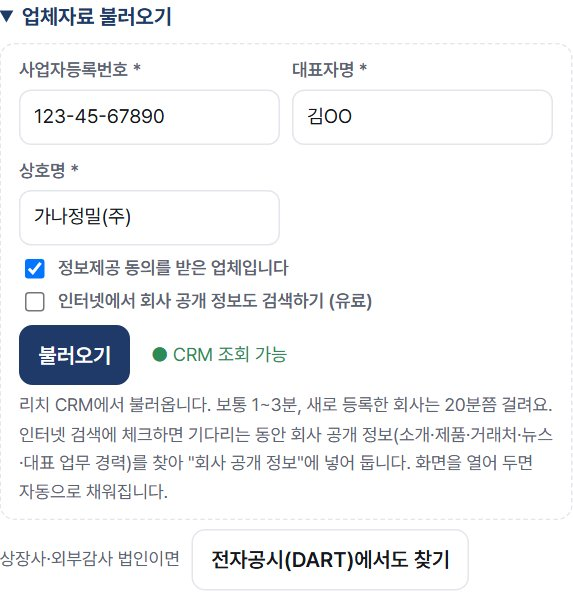
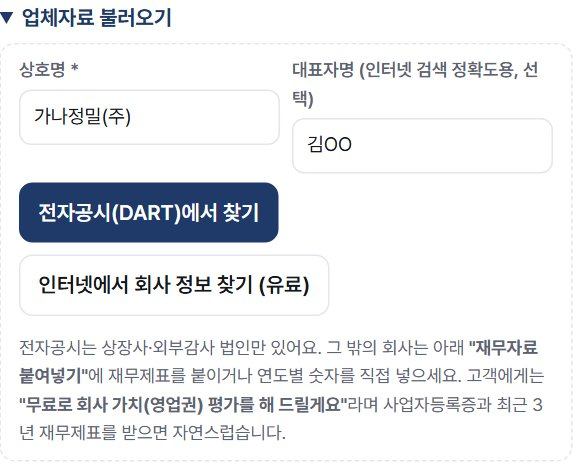
CRM 자동 조회 제거

diff --git a/index.html b/index.html
@@ -276,7 +276,7 @@ details.sit summary{cursor:pointer;font-weight:600}
 
   <h2>한 업체가 지나가는 길</h2>
   <div class="flow">
-    <div class="st"><h3>업체자료 불러오기</h3><dl><dt>무엇으로</dt><dd>리치 CRM(KoData 재무 3년), 전자공시, 인터넷 공개 정보(선택·유료)</dd><dt>어떻게</dt><dd>사업자번호·대표자명·상호명을 넣으면 자동으로 찾아 채움</dd></dl><div class="up">정보제공 동의를 받은 업체만 CRM에 등록합니다</div></div>
+    <div class="st"><h3>업체자료 불러오기</h3><dl><dt>무엇으로</dt><dd>고객에게 받은 재무제표(붙여넣기·연도별 숫자), 전자공시, 인터넷 공개 정보(선택·유료)</dd><dt>어떻게</dt><dd>상호명으로 공시를 찾거나, 재무제표를 붙여넣으면 숫자를 읽어 채움</dd></dl><div class="up">"무료 회사 가치 평가"를 명분으로 최근 3년 재무제표를 받아요</div></div>
     <div class="st"><h3>업체 분석 (신호등 8가지)</h3><dl><dt>무엇으로</dt><dd>재무 숫자 + 체크한 상황</dd><dt>어떻게</dt><dd>회사 가치·잉여금·급여배당·퇴직금·가지급금·유고자금·주주·상속세를 빨강/주황/초록으로. 자료가 없으면 회색</dd></dl><div class="up">→ 실제 사례가 쌓일수록 <b>색 기준이 정확해져요</b></div></div>
     <div class="st"><h3>컨셉 진단</h3><dl><dt>무엇으로</dt><dd>공부하기의 컨셉 카드 50여 개</dd><dt>어떻게</dt><dd>카드마다 적힌 "이런 업체에 맞다" 신호와 대조해 1~3순위</dd></dl><div class="up">→ 계약·보류 사례가 들어가면 <b>순위가 정교해져요</b></div></div>
     <div class="st"><h3>첫 미팅(AP) 스크립트</h3><dl><dt>무엇으로</dt><dd>AP 15단계 표준, 화법·반론 자료</dd><dt>어떻게</dt><dd>업체 상황에 맞춰 단계별 멘트, 상품명 금지어 검사, 대략 점수</dd></dl><div class="up">→ 실제 녹음이 들어가면 <b>현장 말투</b>가 돼요</div></div>
@@ -287,9 +287,8 @@ details.sit summary{cursor:pointer;font-weight:600}
   <h2>뒤에서 돌아가는 것</h2>
   <div class="tw"><table><thead><tr><th>무엇</th><th>하는 일</th></tr></thead><tbody>
     <tr><td>이 사이트</td><td>링크만 있으면 누구나 여는 웹페이지. 휴대폰에서도 열려요</td></tr>
-    <tr><td>저장 서버 (구글)</td><td>바로 고치기·AI에게 가르치기 저장, AI·공시·CRM 연결 창구. 첨부 파일은 비공개 드라이브에</td></tr>
+    <tr><td>저장 서버 (구글)</td><td>바로 고치기·AI에게 가르치기 저장, AI·공시 연결 창구. 첨부 파일은 비공개 드라이브에</td></tr>
     <tr><td>AI (Claude)</td><td>물어보기, 자동작성, 인터넷 검색. 하루·한 달 사용 한도가 걸려 있어요</td></tr>
-    <tr><td>CRM 조회 도우미</td><td>관리자 PC에서 리치 CRM을 대신 조회. 요청하면 1~3분, 새로 등록한 회사는 20분쯤</td></tr>
     <tr><td>매일 밤 학습</td><td>밤 11시에 "AI에게 가르치기"로 들어온 자료를 읽고 사이트에 반영</td></tr>
     <tr><td>상품 비교 데이터</td><td>매주 월요일 자동으로 새 기준을 확인</td></tr>
   </tbody></table></div>
@@ -306,8 +305,8 @@ details.sit summary{cursor:pointer;font-weight:600}
   <h1>3분 시연: 가상의 회사로 따라가 보기</h1>
   <p class="lede"><b>가나정밀(주)</b>라는 가상의 제조업 법인으로 처음부터 PPT까지 따라가 봅니다. 회사 이름과 숫자는 모두 지어낸 것입니다.</p>
   <div class="demo">
-    <figure><img loading="lazy" src="img/demo/1_load.jpg" alt="업체자료 불러오기 화면"><figcaption><b>1. 업체자료 불러오기</b>사업자등록번호·대표자명·상호명 세 칸을 채우면 "불러오기"가 켜집니다. 옆의 초록 불은 CRM 조회가 가능하다는 표시예요. 인터넷 검색은 필요할 때만 체크(유료).</figcaption></figure>
-    <figure><img loading="lazy" src="img/demo/2_report.jpg" alt="업체 분석 보고서"><figcaption><b>2. 업체 분석 보고서</b>CRM에서 가져온 3년 재무로 신호등 8가지를 매깁니다. 이 회사는 빨강 5개: 회사 가치, 잉여금, 퇴직금, 유고 자금, 상속세. 3년 흐름과 매출 증가율도 같이 나와요.</figcaption></figure>
+    <figure><img loading="lazy" src="img/demo/1_load.jpg" alt="업체자료 불러오기 화면"><figcaption><b>1. 업체자료 불러오기</b>상호명으로 전자공시를 찾거나, 고객에게 받은 재무제표를 붙여넣거나 연도별 숫자를 직접 넣습니다. 인터넷 회사 정보 검색은 필요할 때만(유료).</figcaption></figure>
+    <figure><img loading="lazy" src="img/demo/2_report.jpg" alt="업체 분석 보고서"><figcaption><b>2. 업체 분석 보고서</b>3년 재무로 신호등 8가지를 매깁니다. 이 회사는 빨강 5개: 회사 가치, 잉여금, 퇴직금, 유고 자금, 상속세. 3년 흐름과 매출 증가율도 같이 나와요.</figcaption></figure>
     <figure><img loading="lazy" src="img/demo/3_issue.jpg" alt="이슈별 한 장"><figcaption><b>3. 이슈별 한 장</b>빨강·주황 이슈마다 "지금 상황 / 그대로 두면 / 해결 방향 / 필요한 자료"를 정리합니다. 위 "인쇄 · PDF 저장"으로 그대로 출력돼요.</figcaption></figure>
     <figure><img loading="lazy" src="img/demo/4_ap.jpg" alt="AP 스크립트"><figcaption><b>4. 첫 미팅(AP) 스크립트</b>15단계 멘트가 이 회사 상황에 맞춰 나옵니다. 인터넷에서 찾은 "2공장 증설" 소식이 첫 인사에, 만들어진 질문이 니즈 질문에 들어갔어요. <code>[ ]</code>는 대표님께 물어서 받을 숫자입니다.</figcaption></figure>
     <figure><img loading="lazy" src="img/demo/5_pc.jpg" alt="PC 준비"><figcaption><b>5. 제안(PC) 준비</b>제안 전 확인할 신호, 1·2순위 컨셉별 제안서 순서·계산·준비 자료·예상 반론·클로징 한 문장. 아래로 내리면 금액 세 안, 재정심사 미리 보기, 현장 화법, 청약·사후관리 체크가 이어집니다.</figcaption></figure>

diff --git a/docs/about.md b/docs/about.md
@@ -129,3 +129,4 @@
 | 2026-10-19 | 변액리치정기(MAVERICK) 자료에 만기별 가입 나이와 본사 출시 공지(10/20 출시, 신설법인·개인 가입 가능)를 더했어요. 생긴 지 2년이 안 된 회사에도 추천해요 |
 | 2026-10-20 | 변액리치정기(MAVERICK) 회사 판매 자료로 다시 배웠어요. 보장형·적립형 차이, 달러경영인정기·변액연금과 비교, 조심할 점을 더했어요. 생긴 지 2년 안 된 회사는 달러경영인정기에 못 들어가서 이 상품을 추천해요 |
 | 2026-10-20 | 10월 토요특강 4개를 공부했어요. 공부하기에 정리를 올렸고, 업체 분석에 "무료 회사 가치 평가로 재무제표 받기", 거절 대응 6가지, 잉여금 30% 적립 기준을 넣었어요 |
+| 2026-10-21 | CRM에서 자동으로 숫자를 가져오는 기능을 멈췄어요(KoData 연결이 안 돼요). 이제 상호명으로 전자공시를 찾거나, 고객에게 받은 재무제표를 붙여넣어 분석해요 |
